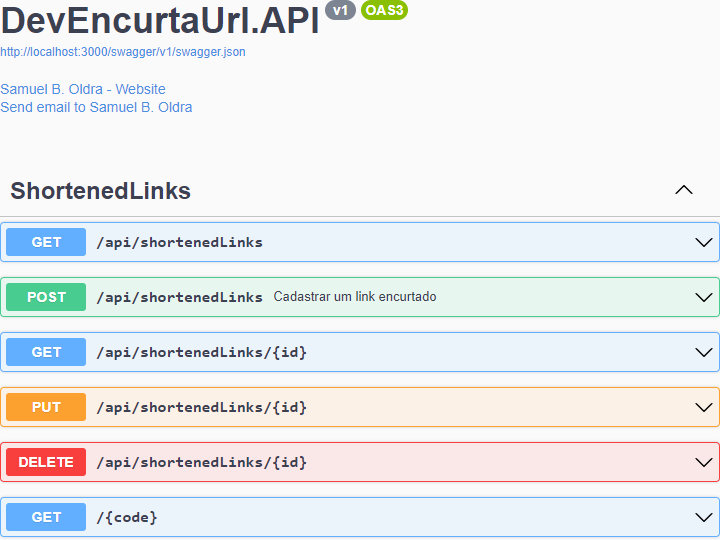
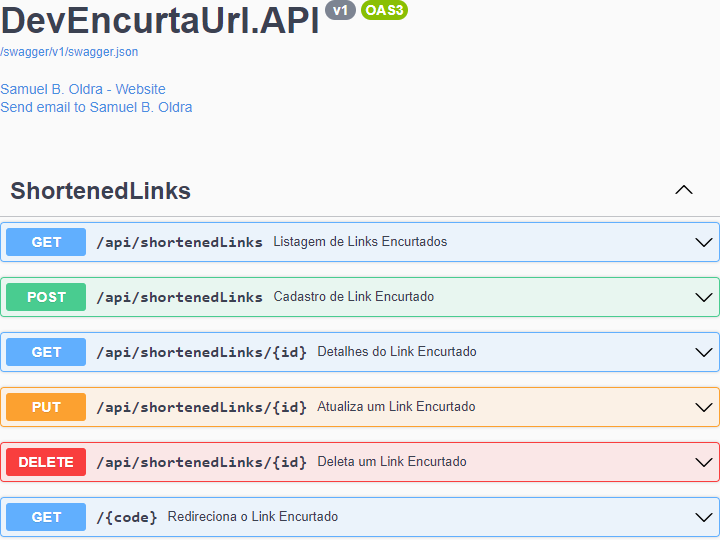
Adicionados comentários no SWAGGER #1

diff --git a/DevEncurtaUrl.API/Controllers/ShortenedLinksController.cs b/DevEncurtaUrl.API/Controllers/ShortenedLinksController.cs
@@ -15,8 +15,15 @@ namespace DevEncurtaUrl.API.Controllers
         public ShortenedLinksController(DevEncurtaUrlDbContext context)
             => _context = context;
 
+        // GET: api/shortenedLinks
+        /// <summary>
+        /// Listagem de Links Encurtados
+        /// </summary>
+        /// <returns>Lista de Links Encurtados</returns>
+        /// <response code="200">Sucesso</response>
         [HttpGet]
-        public IActionResult Get()
+        [ProducesResponseType(StatusCodes.Status200OK)]
+        public IActionResult GetAll()
         {
             Log.Information("Endpoint - GET: api/shortenedLinks");
 
@@ -25,30 +32,51 @@ namespace DevEncurtaUrl.API.Controllers
             return Ok(links);
         }
 
+        // GET: api/shortenedLinks/{id}
+        /// <summary>
+        /// Detalhes do Link Encurtado
+        /// </summary>
+        /// <param name="id">ID do Link Encurtado</param>
+        /// <returns>Mostra um Link Encurtado</returns>
+        /// <response code="200">Sucesso</response>
+        /// <response code="404">Não encontrado</response>
         [HttpGet("{id}")]
+        [ProducesResponseType(StatusCodes.Status200OK)]
+        [ProducesResponseType(StatusCodes.Status404NotFound)]
         public IActionResult GetById(int id)
         {
+            Log.Information("Endpoint - GET: api/shortenedLinks/{id}");
+
             var link = _context.Links.SingleOrDefault(l => l.Id == id);
 
             if (link == null)
-                return NotFound();
+                return NotFound("Link Encurtado não encontrado.");
 
             return Ok(link);
         }
 
+        // POST: api/shortenedLinks
         /// <summary>
-        /// Cadastrar um link encurtado
+        /// Cadastro de Link Encurtado
         /// </summary>
         /// <remarks>
-        /// { "title": "ultimo-artigo Blog", "destinationLink" : "https://www.luisdev.com.br/2023/02/05/atributos-no-c-como-criar-e-aplicar-em-seu-projeto" }
+        /// Requisição:
+        /// {
+        ///     "title": "GitHub Samuel B. Oldra",
+        ///     "destinationLink" : "https://github.com/samuel-oldra"
+        /// }
         /// </remarks>
-        /// <param name="model">Dados de link</param>
-        /// <returns>Objeto recém-criado</returns>
-        /// <response code="201">Sucesso!</response>
+        /// <param name="model">Dados do Link Encurtado</param>
+        /// <returns>Objeto criado</returns>
+        /// <response code="201">Sucesso</response>
+        /// <response code="400">Dados inválidos</response>
         [HttpPost]
         [ProducesResponseType(StatusCodes.Status201Created)]
+        [ProducesResponseType(StatusCodes.Status400BadRequest)]
         public IActionResult Post(AddOrUpdateShortenedLinkModel model)
         {
+            Log.Information("Endpoint - POST: api/shortenedLinks");
+
             var domain = HttpContext.Request.Host.Value;
 
             var link = new ShortenedCustomLink(model.Title, model.DestinationLink, domain);
@@ -56,16 +84,37 @@ namespace DevEncurtaUrl.API.Controllers
             _context.Links.Add(link);
             _context.SaveChanges();
 
-            return CreatedAtAction("GetById", new { id = link.Id }, link);
+            return CreatedAtAction(nameof(GetById), new { id = link.Id }, link);
         }
 
+        // PUT: api/shortenedLinks/{id}
+        /// <summary>
+        /// Atualiza um Link Encurtado
+        /// </summary>
+        /// <remarks>
+        /// Requisição:
+        /// {
+        ///     "title": "LinkedIn Samuel B. Oldra",
+        ///     "destinationLink" : "https://www.linkedin.com/in/samuel-oldra/"
+        /// }
+        /// </remarks>
+        /// <param name="id">ID do Link Encurtado</param>
+        /// <param name="model">Dados do Link Encurtado</param>
+        /// <response code="204">Sucesso</response>
+        /// <response code="400">Dados inválidos</response>
+        /// <response code="404">Não encontrado</response>
         [HttpPut("{id}")]
+        [ProducesResponseType(StatusCodes.Status204NoContent)]
+        [ProducesResponseType(StatusCodes.Status400BadRequest)]
+        [ProducesResponseType(StatusCodes.Status404NotFound)]
         public IActionResult Put(int id, AddOrUpdateShortenedLinkModel model)
         {
+            Log.Information("Endpoint - PUT: api/shortenedLinks/{id}");
+
             var link = _context.Links.SingleOrDefault(l => l.Id == id);
 
             if (link == null)
-                return NotFound();
+                return NotFound("Link Encurtado não encontrado.");
 
             link.Update(model.Title, model.DestinationLink);
 
@@ -75,13 +124,24 @@ namespace DevEncurtaUrl.API.Controllers
             return NoContent();
         }
 
+        // DELETE: api/shortenedLinks/{id}
+        /// <summary>
+        /// Deleta um Link Encurtado
+        /// </summary>
+        /// <param name="id">ID do Link Encurtado</param>
+        /// <response code="204">Sucesso</response>
+        /// <response code="404">Não encontrado</response>
         [HttpDelete("{id}")]
+        [ProducesResponseType(StatusCodes.Status204NoContent)]
+        [ProducesResponseType(StatusCodes.Status404NotFound)]
         public IActionResult Delete(int id)
         {
+            Log.Information("Endpoint - DELETE: api/shortenedLinks/{id}");
+
             var link = _context.Links.SingleOrDefault(l => l.Id == id);
 
             if (link == null)
-                return NotFound();
+                return NotFound("Link Encurtado não encontrado.");
 
             _context.Links.Remove(link);
             _context.SaveChanges();
@@ -89,13 +149,23 @@ namespace DevEncurtaUrl.API.Controllers
             return NoContent();
         }
 
+        // GET: api/shortenedLinks/{code}
+        /// <summary>
+        /// Redireciona o Link Encurtado
+        /// </summary>
+        /// <param name="code">Código do Link Encurtado</param>
+        /// <returns>Redireciona um Link Encurtado</returns>
+        /// <response code="404">Não encontrado</response>
         [HttpGet("/{code}")]
+        [ProducesResponseType(StatusCodes.Status404NotFound)]
         public IActionResult RedirectLink(string code)
         {
+            Log.Information("Endpoint - GET: api/shortenedLinks/{code}");
+
             var link = _context.Links.SingleOrDefault(l => l.Code == code);
 
             if (link == null)
-                return NotFound();
+                return NotFound("Link Encurtado não encontrado.");
 
             return Redirect(link.DestinationLink);
         }
